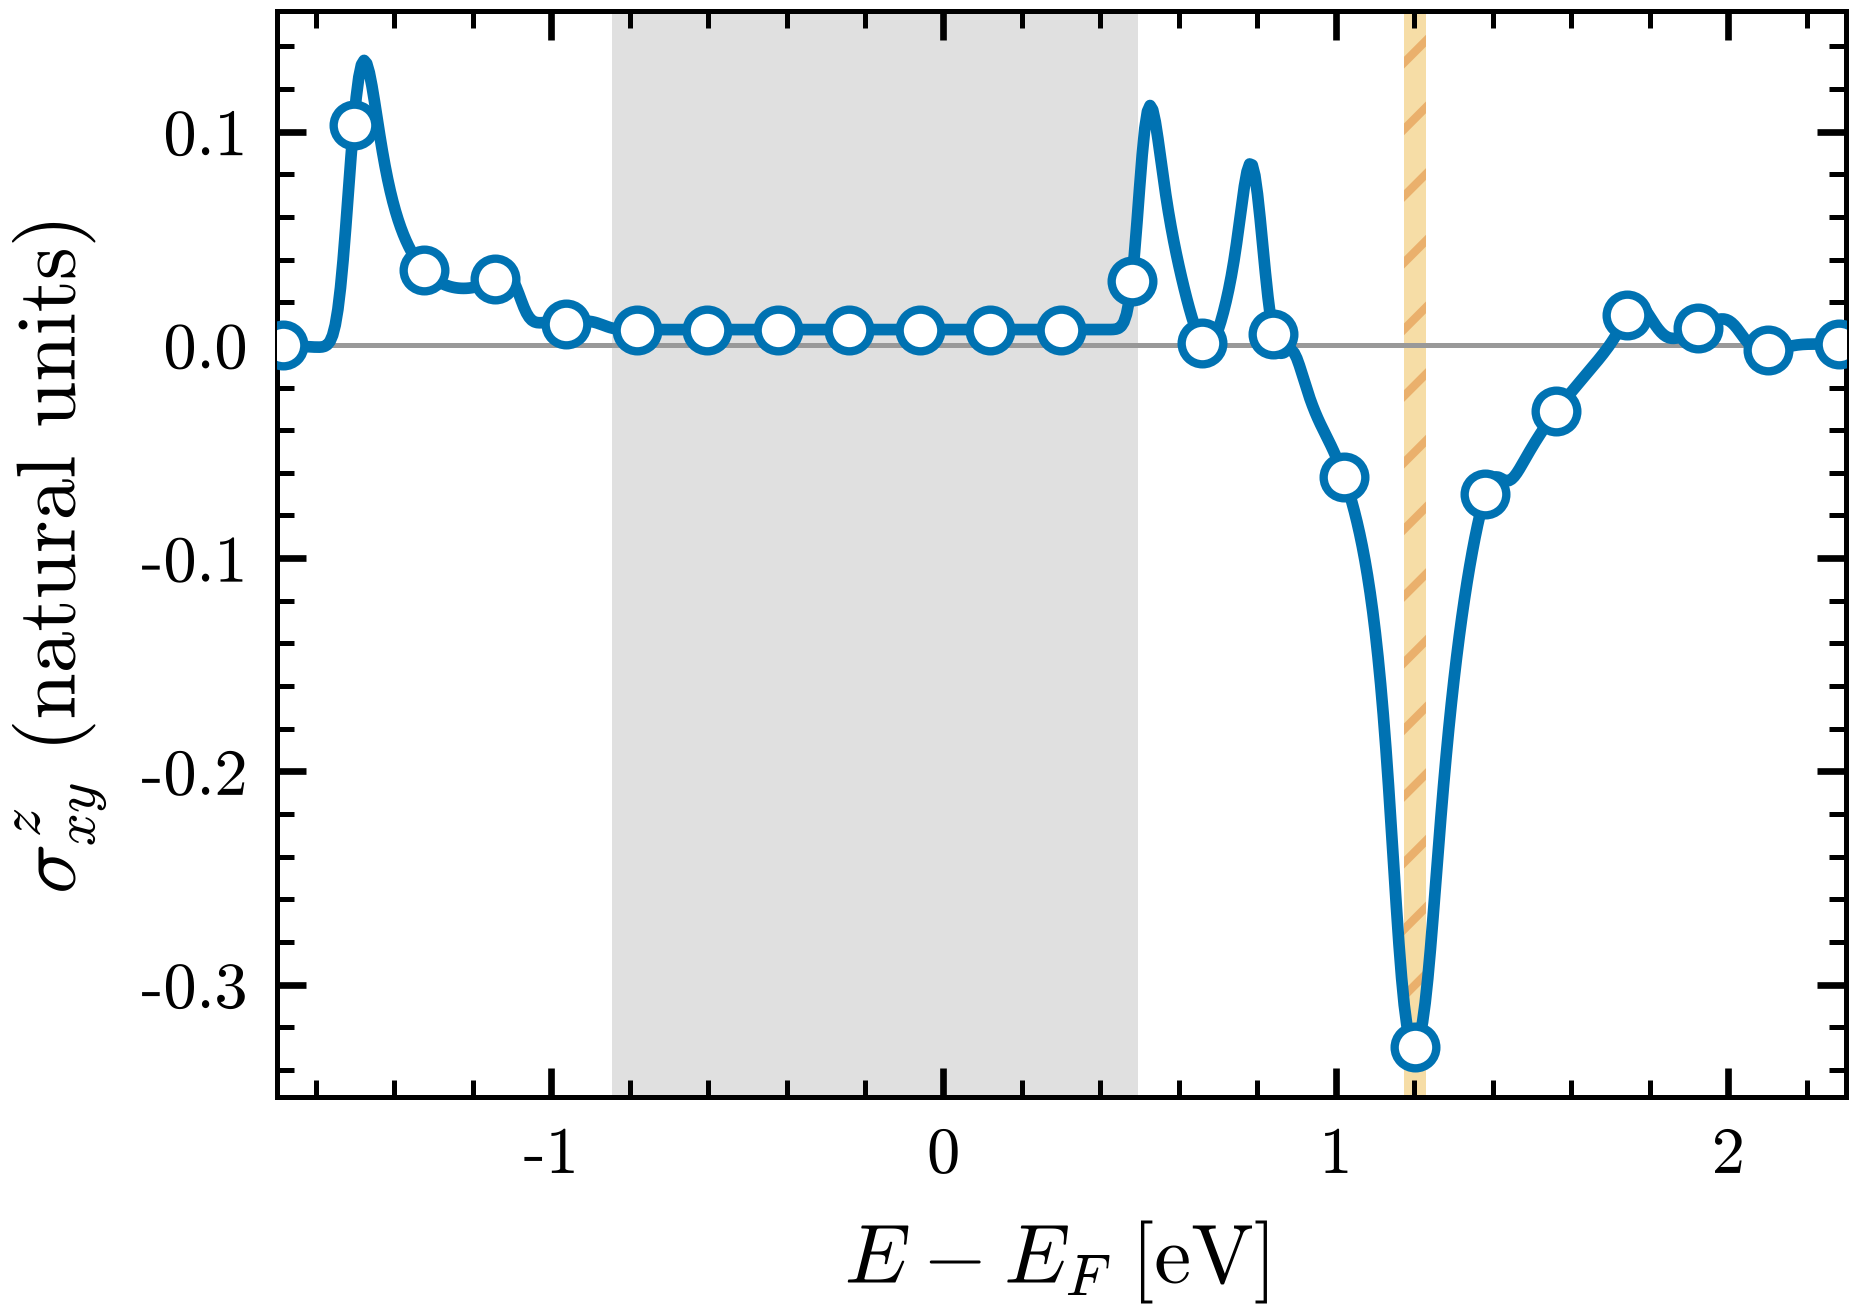
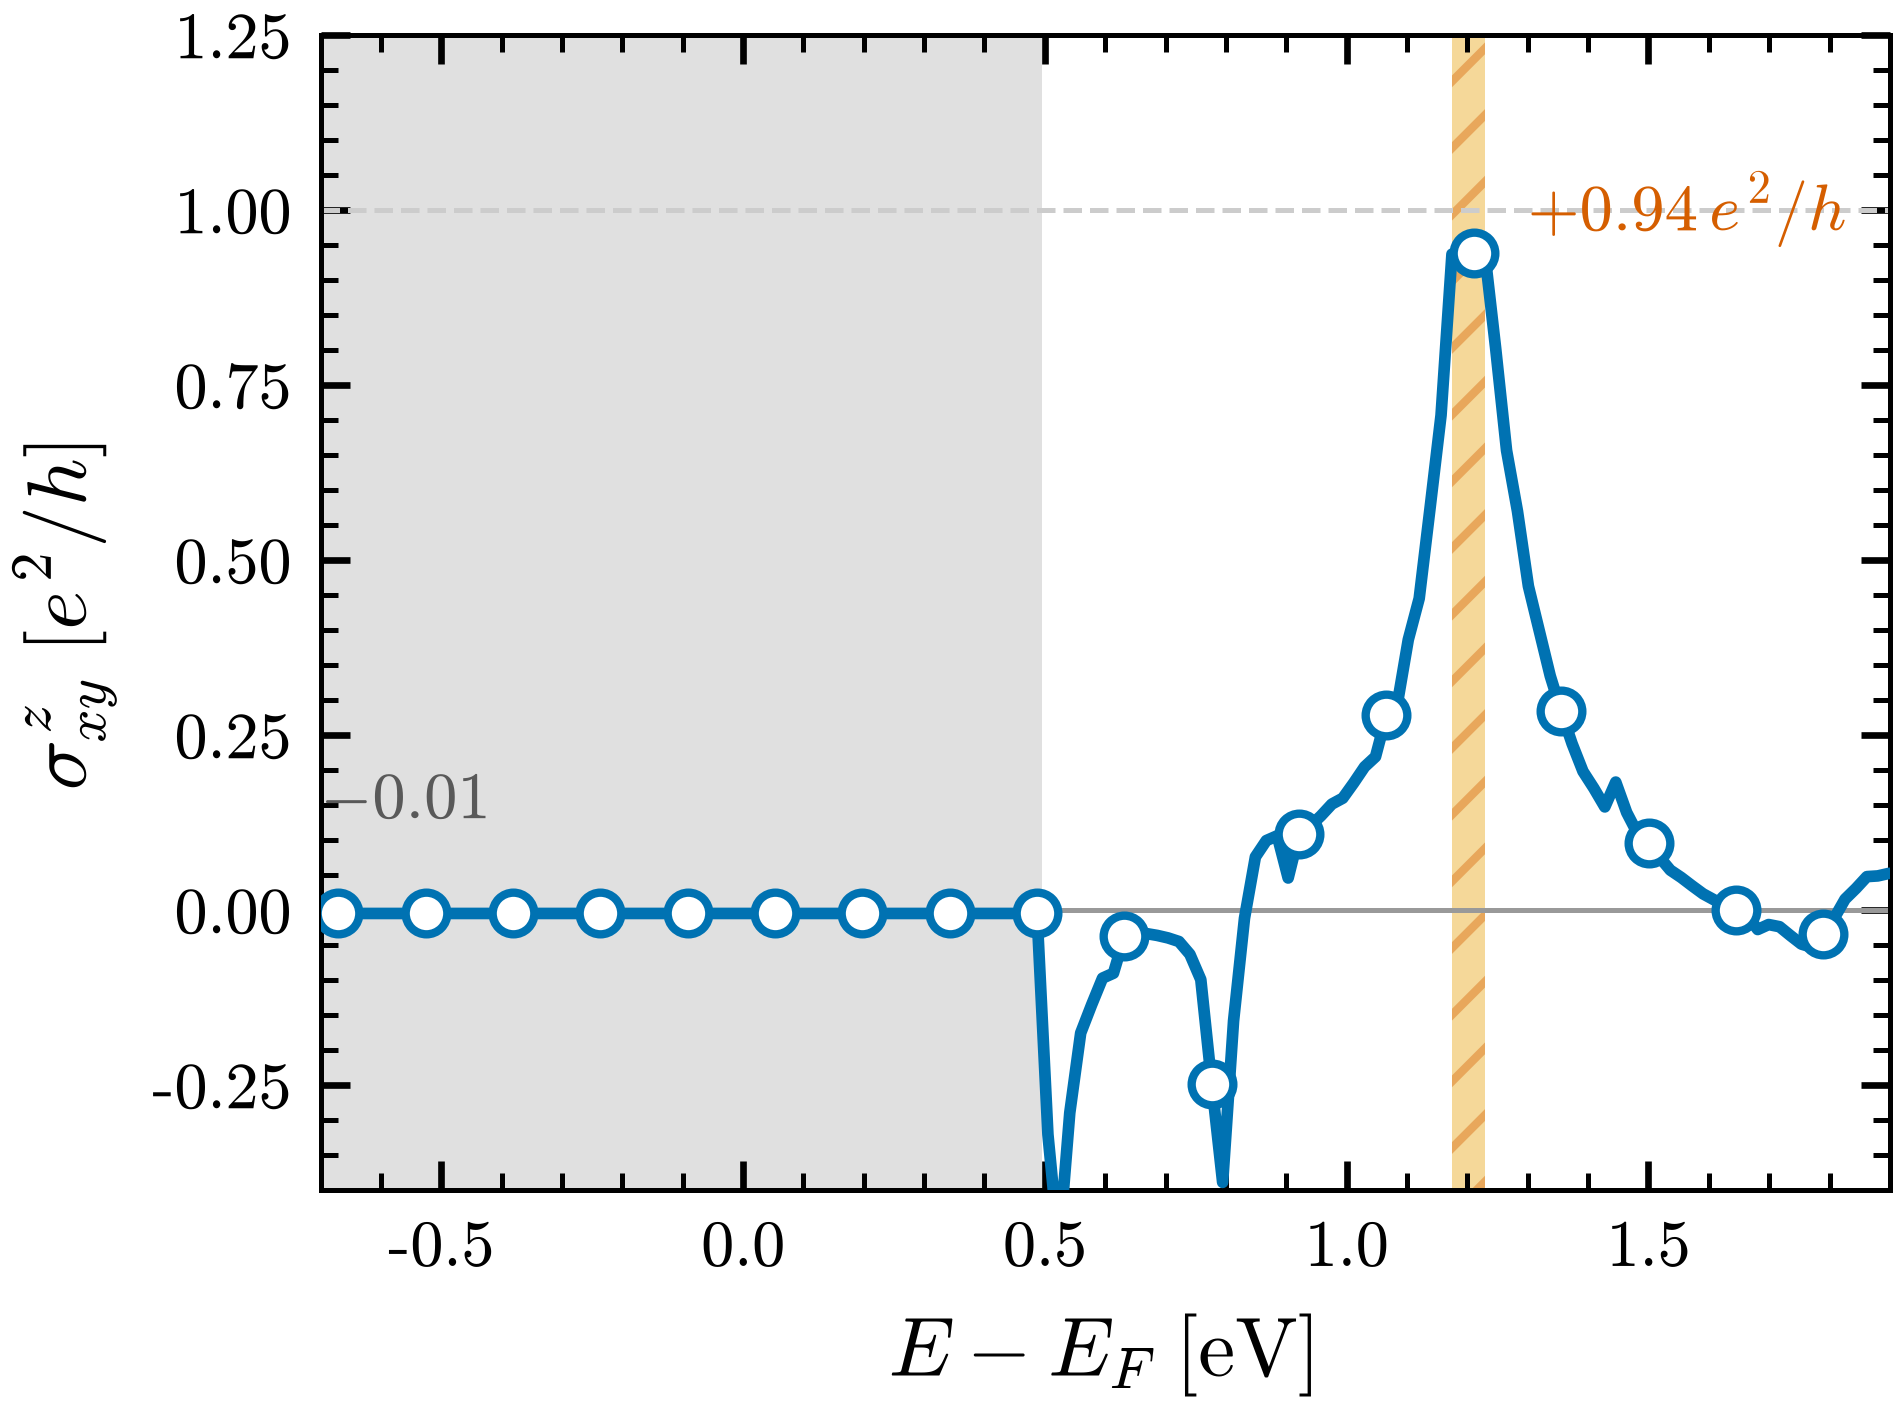
fix(example9): PdSe2 spin Hall DOES show a near-quantized plateau (Berry connection)
Correction to the prior PdSe2 figure/narrative. The earlier FIG. 2 used the BARE
velocity (pdse2_proj_vy_hr.dat) — the very operator this tutorial warns against —
and so plotted the anticorrelated curve (r = -0.34), peak ~ -0.33 in natural units,
and wrongly concluded "no spin-Hall plateau". With the COVARIANT (Berry-connection)
velocity, the exact intrinsic sigma^z_xy of PdSe2 has:

  - main gap around E_F:        sigma^z_xy = -0.01 e^2/h  (flat, trivial, Z2=0)
  - topological gap @ +1.2 eV:  sigma^z_xy = +0.94 e^2/h  (flat plateau, std 0.000)

The +0.94 plateau is the near-quantized spin-Hall signature of the topological gap
(bands 7|8); it falls just short of +1 because SOC breaks [S_z,H]=0 so the
spin-Chern quantization is only approximate. This matches the project report's
FIG. 4 (wannierberri covariant velocity) and the refined-velocity KPM (r = +0.95).

Why these files changed:
- examples/example_9_SHC_in_PdSe2/img/pdse2_shc.png: regenerated from the
  covariant-velocity (wannierberri Berry-connection) sigma^z_xy; shows the flat
  +0.94 e^2/h plateau at the topological gap and ~0 across the trivial main gap,
  with the +1 e^2/h guide line.
- examples/example_9_SHC_in_PdSe2/README.md: FIG. 2 caption + "Reading the spin
  Hall" section rewritten — the bare-velocity command is now explicitly flagged as
  the WRONG (negative-example) route; the plateau is e^2/h, near-quantized, and
  requires the Berry connection. Honestly notes the covariant velocity is computed
[…]

diff --git a/examples/example_9_SHC_in_PdSe2/README.md b/examples/example_9_SHC_in_PdSe2/README.md
@@ -120,28 +120,34 @@ $O(\mathbf{k})$ and diagonalizes densely on a k-mesh, with no supercell:
 ```bash
 ../../tools/hr_exactdiag.py bands pdse2_proj --ef -1.3162   # FIG. 1
 ../../tools/hr_exactdiag.py dos   pdse2_proj                # DOS, integral = num_wann
+# WARNING: the bare velocity below gets sigma^z_xy WRONG (it anticorrelates with
+# the truth, r = -0.34); it is shown only to make the Berry-connection lesson concrete.
 ../../tools/hr_exactdiag.py shc   pdse2_proj \
         --jop pdse2_proj_JXSZ_hr.dat --vop pdse2_proj_vy_hr.dat \
-        --nk 240 --eta 0.02 --emin -3.0 --emax 1.0 --out pdse2_shc   # intrinsic sigma^z_xy
-../plot_hall.py pdse2_shc.json --out img/pdse2_shc.png --ef -1.3162 \
-        --ylabel '$\sigma^{z}_{xy}$ (natural units)' --gap -0.845 0.495 --gap2 1.175 1.230
+        --nk 240 --eta 0.02 --emin -3.0 --emax 1.0 --out pdse2_shc_bare
 ```
 
-![Intrinsic spin Hall conductivity of PdSe2 versus energy: flat and near-zero across the trivial main gap, a large peak at the topological gap near +1.2 eV](img/pdse2_shc.png)
+The figure below is the **covariant-velocity** result (the velocity carrying the
+Berry connection $A_a$, here from the wannierberri position matrix `AA_R`). That is
+the curve that matches the linear-scaling KPM once its velocity is refined the same
+way, and it is the physically correct $\sigma^{z}_{xy}$.
+
+![Intrinsic spin Hall conductivity of PdSe2 versus energy: flat and near-zero across the trivial main gap, a near-quantized +0.94 e2/h plateau at the topological gap near +1.2 eV](img/pdse2_shc.png)
 
 FIG. 2. Intrinsic (Fermi-sea) spin Hall conductivity $\sigma^{z}_{xy}(E_F)$ of
-monolayer PdSe$_2$ versus $E-E_F$ (natural units; the absolute scale carries one
-$\sigma_{xx}$-style calibration constant, so the peak corresponds to
-$\sim 1\,e^2/h$), from `tools/hr_exactdiag.py shc` on the same `_hr.dat` operators
-($J^{z}_{x}=\tfrac12\{v_x,S_z\}$ and $v_y$). Solid blue with open circles:
-$\sigma^{z}_{xy}$ from the spin-Berry-curvature sum; grey band: the **trivial**
-charge gap $[-0.85,+0.50]$ eV around $E_F$ where $\sigma^{z}_{xy}\approx 0$ (no
-spin-Hall plateau, consistent with $Z_2=0$ at the band-edge gap); orange hatched
-band: the narrow **topological** gap at $E-E_F\approx +1.2$ eV (bands 7|8, width
-$\approx 55$ meV), where the spin-Berry curvature concentrates into the large
-feature. $240\times240$ k-mesh, $\eta=20$ meV Gaussian on the $E_F$ sweep,
-$E_F=-1.3162$ eV. This is the curve the linear-scaling KPM (lsquant Kubo-Bastin,
-Fermi-sea part) reproduces.
+monolayer PdSe$_2$ versus $E-E_F$, in units of $e^2/h$, from the **covariant**
+(Berry-connection) velocity. Solid blue with open circles: $\sigma^{z}_{xy}$ from
+the spin-Berry-curvature sum (exact diagonalization, $60\times60$ k-mesh with the
+wannierberri covariant velocity). Grey band: the **trivial** charge gap
+$[-0.85,+0.50]$ eV around $E_F$, where $\sigma^{z}_{xy}=-0.01\,e^2/h\approx 0$ (no
+plateau, $Z_2=0$). Orange hatched band: the narrow **topological** gap at
+$E-E_F\approx +1.2$ eV (bands 7|8, width $\approx 55$ meV), where $\sigma^{z}_{xy}$
+sits on a flat **near-quantized plateau at $+0.94\,e^2/h$** (grey dashed line:
+$+1\,e^2/h$). The plateau falls just short of the integer because spin-orbit
+coupling breaks $[S_z,H]=0$, so $S_z$ is not exactly conserved; its near-integer
+value and flatness are the signature of the non-trivial spin-Chern character of
+that gap. $E_F=-1.3162$ eV. The bare velocity (command above) misses this entirely
+— it is the dotted, anticorrelated curve of the operator lesson.
 
 This is the framework that turns any reconstructed `_hr.dat` operator set into
 bands, DOS, and Kubo quantities, and it is how the "exact" curve in the spin-Hall
@@ -154,13 +160,22 @@ intrinsic $\sigma^{z}_{xy}$ comes out anticorrelated with the truth; feed it the
 The energy dependence is the lesson, and it is best read against Tutorial 4. In
 the Haldane model a *charge* Hall conductivity locks onto an exact integer
 $e^2/h$ across the gap — a quantized plateau pinned by the Chern number. PdSe$_2$
-differs on both counts. Its **main** gap, the one straddling $E_F$, is trivial
-($Z_2=0$): $\sigma^{z}_{xy}$ stays flat at zero through it, no plateau and no
-quantization. But PdSe$_2$ is not globally trivial. Higher up, a narrow gap in the
-conduction manifold near $E-E_F\approx 1.2$ eV (bands 7|8) carries a non-trivial
-spin-Chern character, and it is there — not at the band edge — that the spin-Berry
-curvature piles up into the large $\sigma^{z}_{xy}$ feature. The spin Hall response
-is the probe that tells the two gaps apart: an ordinary gap at the Fermi level, a
-topological one above it. (A quantized *spin* Hall plateau is not expected even
-there — $\sigma^{z}_{xy}$ is conserved only when $S_z$ commutes with $H$, which
-spin-orbit coupling breaks — but the topology is what concentrates the response.)
+is similar in the *main* gap but different higher up. Its **main** gap, the one
+straddling $E_F$, is trivial ($Z_2=0$): $\sigma^{z}_{xy}$ stays flat at
+$\approx 0$ through it, no plateau. But PdSe$_2$ is **not** globally trivial.
+Higher up, a narrow gap in the conduction manifold near $E-E_F\approx 1.2$ eV
+(bands 7|8) is topological, and there $\sigma^{z}_{xy}$ locks onto a flat
+**near-quantized plateau at $+0.94\,e^2/h$** — almost the same integer step
+Haldane shows for the charge Hall. It falls just short of an exact $+1$ because
+spin-orbit coupling breaks $[S_z,H]=0$, so $S_z$ is not perfectly conserved and the
+spin-Chern quantization is only approximate; but the plateau's flatness and
+near-integer height are the operational fingerprint of the gap's non-trivial
+topology. The spin Hall response is the probe that tells the two gaps apart: an
+ordinary gap at the Fermi level, a topological one above it.
+
+One caveat the figure makes unavoidable: this plateau **only** appears with the
+**covariant** velocity (the Berry connection $A_a$). The bare $v=i\mathbf{R}\cdot H$
+velocity that `hr_exactdiag` builds by default gets the interband matrix elements
+wrong and misses the plateau (it even anticorrelates with the truth). Computing the
+covariant velocity inside the C++ pipeline (from `_r.dat`) is the documented
+follow-up; the figure here uses the wannierberri Berry connection as the reference.

diff --git a/examples/04_haldane/README.md b/examples/04_haldane/README.md
@@ -134,9 +134,10 @@ with $20$ meV Gaussian broadening on the Fermi sweep.
 
 The quantization is what "topological" means operationally: the plateau height is
 an integer pinned by the global structure of the occupied band, immune to the
-exact value of $t_2$ or $\phi$ as long as the gap stays open. Contrast this with
-Tutorial 9, where a *trivial* insulator (PdSe$_2$) shows a large spin Hall
-response that is **not** a quantized plateau.
+exact value of $t_2$ or $\phi$ as long as the gap stays open. The same fingerprint
+reappears in Tutorial 9 for a real material: PdSe$_2$ is trivial at its Fermi-level
+gap, but a higher, topological gap shows a flat, near-quantized **spin** Hall
+plateau at $+0.94\,e^2/h$ — the same integer-step signature, in the spin channel.
 
 ## What to take away
 